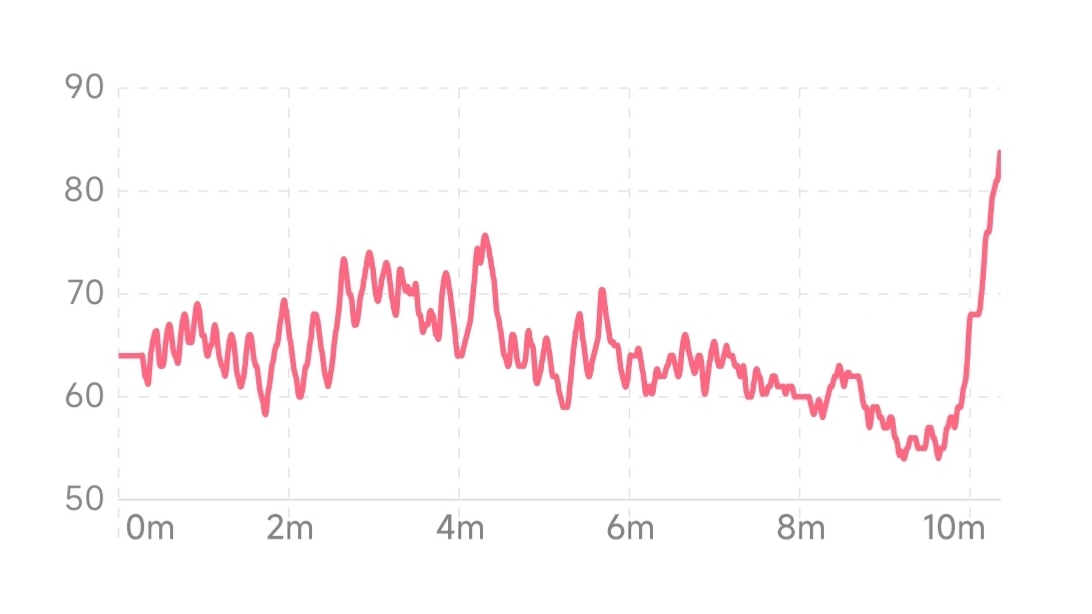
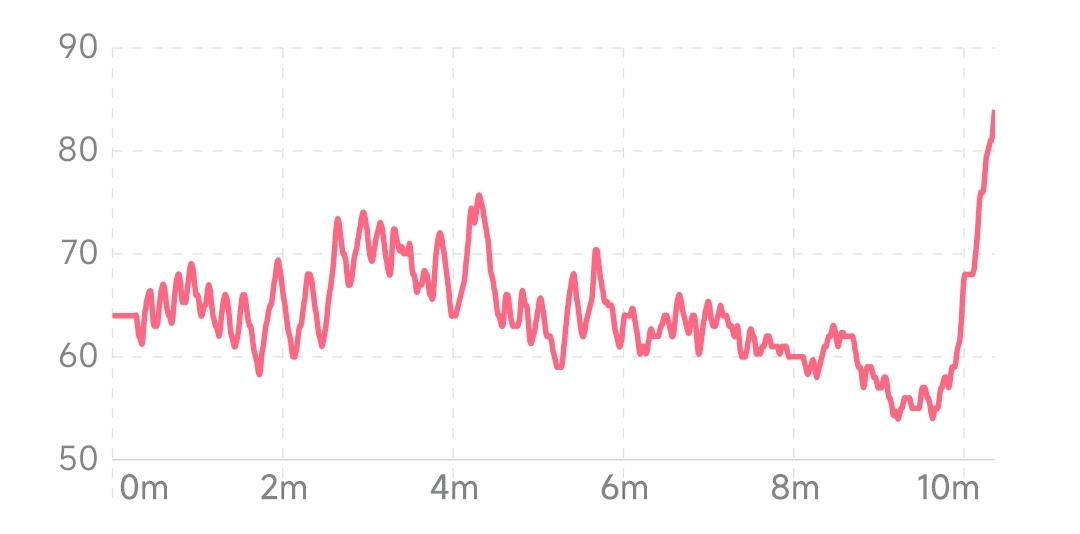
更新清晰的趋势图图片 一些细节调整

diff --git a/source/docs/看懂图表/趋势图/brainwave-trend.md b/source/docs/看懂图表/趋势图/brainwave-trend.md
@@ -1,6 +1,6 @@
 ---
 slug: /trend/brainwave-trend
-sidebar_label: 脑电波变化趋势图
+sidebar_label: 脑电波
 sidebar_position: 1
 hide_title: true
 ---
@@ -30,3 +30,9 @@ hide_title: true
 例如下图是一个冥想过程中的脑电波节律能量趋势图，可以看出在冥想过程中，前半段所有脑电波节律能量缓慢上升，后半段 γ 波和 β 波的能量显著上升，而 α 波、 θ 波和 δ 波的能量有所下降，这表示后半段专注和觉醒程度的提高。
 
 ![典型冥想状态下的脑电波节律能量趋势](Image3/7.png)
+
+## 脑电波节律百分比
+
+脑电波节律百分比图反映了当次体验中 5 种脑电波节律的平均占比。图中每一个色块的面积表示了这种脑电波节律的百分比，面积越大表示这种脑电波节律百分比越高。
+
+![脑电波节律百分比](Image3/8.jpeg)

diff --git a/source/docs/看懂图表/趋势图/long-term-trend.md b/source/docs/看懂图表/趋势图/long-term-trend.md
@@ -1,11 +1,11 @@
 ---
 slug: /trend/long-term-trend
-sidebar_label: 长期趋势图
+sidebar_label: 看懂「变化曲线」
 sidebar_position: 9
 hide_title: true
 ---
 
-## 看懂「变化曲线」图
+## 看懂「变化曲线」
 
 ### Y 轴/纵坐标
 为了凸显出使用过程中的数值变化，心率、心率变异性和压力水平的纵坐标为动态纵坐标。这意味着如果你两次使用过程中的最大和最小值不一样，那么 Y 轴/纵坐标也会不一样。比如下图，图 1 - Y 轴的范围为50 ~ 90，图 2 - Y 轴的范围为 70~85。

diff --git a/source/docs/看懂图表/趋势图/directory-trend.md b/source/docs/看懂图表/趋势图/directory-trend.md
@@ -7,15 +7,17 @@ hide_title: true
 
 ## 趋势图
 
-[脑电波变化趋势图](/trend/brainwave-trend)
+[脑电波](/trend/brainwave-trend)
 
-[心率变化趋势图](/trend/heart-rate-trend)
+[心率](/trend/heart-rate-trend)
 
-[心率变异性（HRV）变化趋势图](/trend/HRV-trend)
+[心率变异性（HRV）](/trend/HRV-trend)
 
 [注意力](/trend/attention-trend)
 
 [放松度](/trend/relaxation-trend)
+
+[和谐时间](/trend/coherence-time)
 
 [压力水平](/trend/stress-trend)
 

diff --git a/source/docs/看懂图表/实时图/realtime-brainwave-rhythm.md b/source/docs/看懂图表/实时图/realtime-brainwave-rhythm.md
@@ -11,8 +11,3 @@ hide_title: true
 
 ![节律图](Image1/5.PNG)
 
-## 脑电波节律百分比
-
-脑电波节律百分比图反映了当次体验中 5 种脑电波节律的平均占比。图中每一个色块的面积表示了这种脑电波节律的百分比，面积越大表示这种脑电波节律百分比越高。
-
-![脑电波节律百分比](Image1/8.jpeg)

diff --git a/source/docs/看懂图表/趋势图/coherence-time.md b/source/docs/看懂图表/趋势图/coherence-time.md
@@ -1,12 +1,11 @@
 ---
 slug: /trend/coherence-time
-sidebar_label: 和谐时间统计图
+sidebar_label: 和谐时间
 sidebar_position: 10
 hide_title: true
 ---
 
-### 和谐时间统计图
-和谐时间统计图记录了和谐状态累计时长的变化趋势。
+### 和谐时间趋势
 
 #### 当次体验视图
 

diff --git a/source/docs/看懂图表/趋势图/HRV-trend.md b/source/docs/看懂图表/趋势图/HRV-trend.md
@@ -1,6 +1,6 @@
 ---
 slug: /trend/HRV-trend
-sidebar_label: 心率变异性（HRV）的变化曲线图
+sidebar_label: 心率变异性（HRV）
 sidebar_position: 3
 hide_title: true
 ---

diff --git a/source/docs/看懂图表/趋势图/respiratory-rate-trend.md b/source/docs/看懂图表/趋势图/respiratory-rate-trend.md
@@ -1,6 +1,6 @@
 ---
 slug: /trend/respiratory-rate-trend
-sidebar_label: 呼吸率变化曲线图
+sidebar_label: 呼吸率
 sidebar_position: 7
 hide_title: true
 ---

diff --git a/source/docs/看懂图表/趋势图/relaxation-trend.md b/source/docs/看懂图表/趋势图/relaxation-trend.md
@@ -1,6 +1,6 @@
 ---
 slug: /trend/relaxation-trend
-sidebar_label: 放松度变化趋势图
+sidebar_label: 放松度
 sidebar_position: 5
 hide_title: true
 ---

diff --git a/source/docs/看懂图表/趋势图/last-7-times.md b/source/docs/看懂图表/趋势图/last-7-times.md
@@ -1,6 +1,6 @@
 ---
 slug: /trend/last-7-times
-sidebar_label: 最近七次趋势图
+sidebar_label: 最近七次
 sidebar_position: 8
 hide_title: true
 ---

diff --git a/source/docs/看懂图表/趋势图/stress-trend.md b/source/docs/看懂图表/趋势图/stress-trend.md
@@ -1,6 +1,6 @@
 ---
 slug: /trend/stress-trend
-sidebar_label: 压力水平变化趋势图
+sidebar_label: 压力
 sidebar_position: 7
 hide_title: true
 ---

diff --git a/source/docs/看懂图表/趋势图/heart-rate-trend.md b/source/docs/看懂图表/趋势图/heart-rate-trend.md
@@ -1,6 +1,6 @@
 ---
 slug: /trend/heart-rate-trend
-sidebar_label: 心率变化趋势图
+sidebar_label: 心率
 sidebar_position: 2
 hide_title: true
 ---
